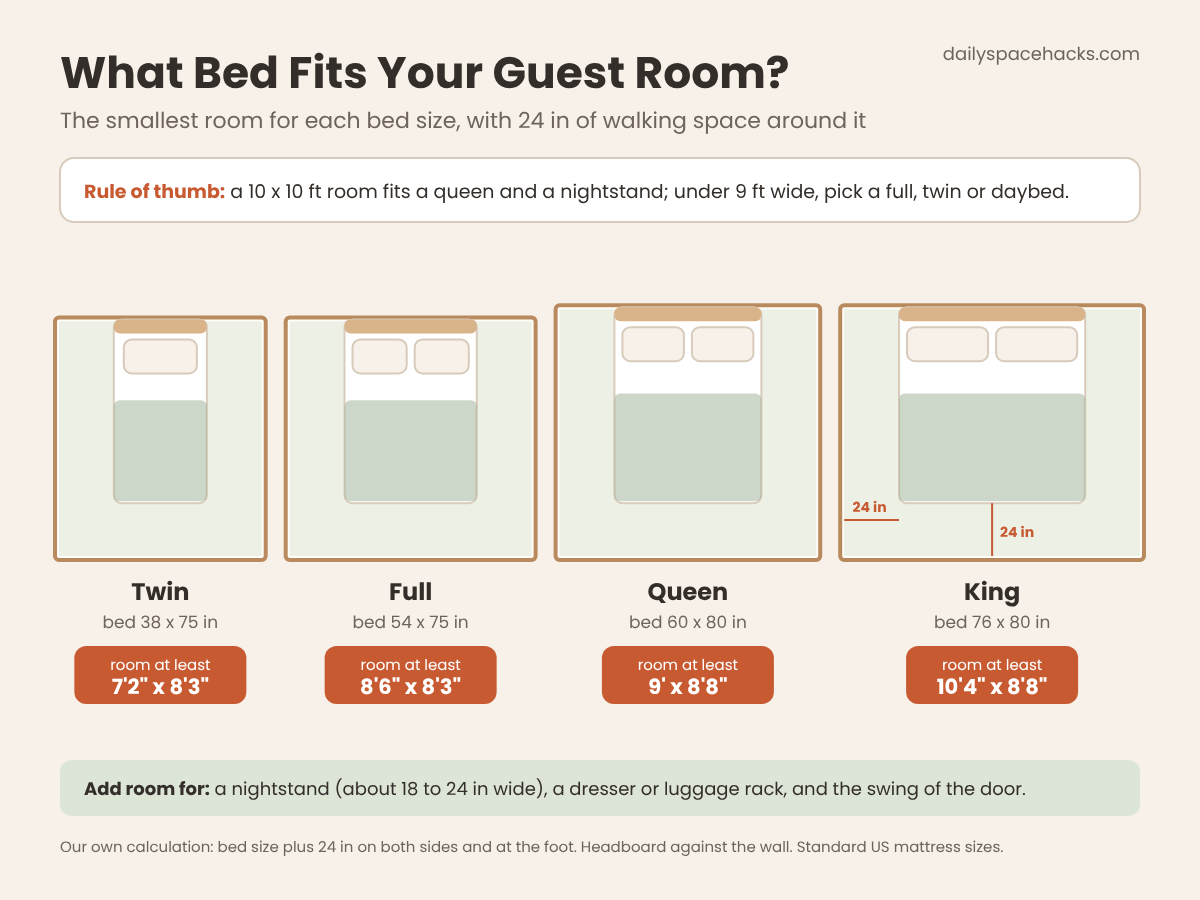
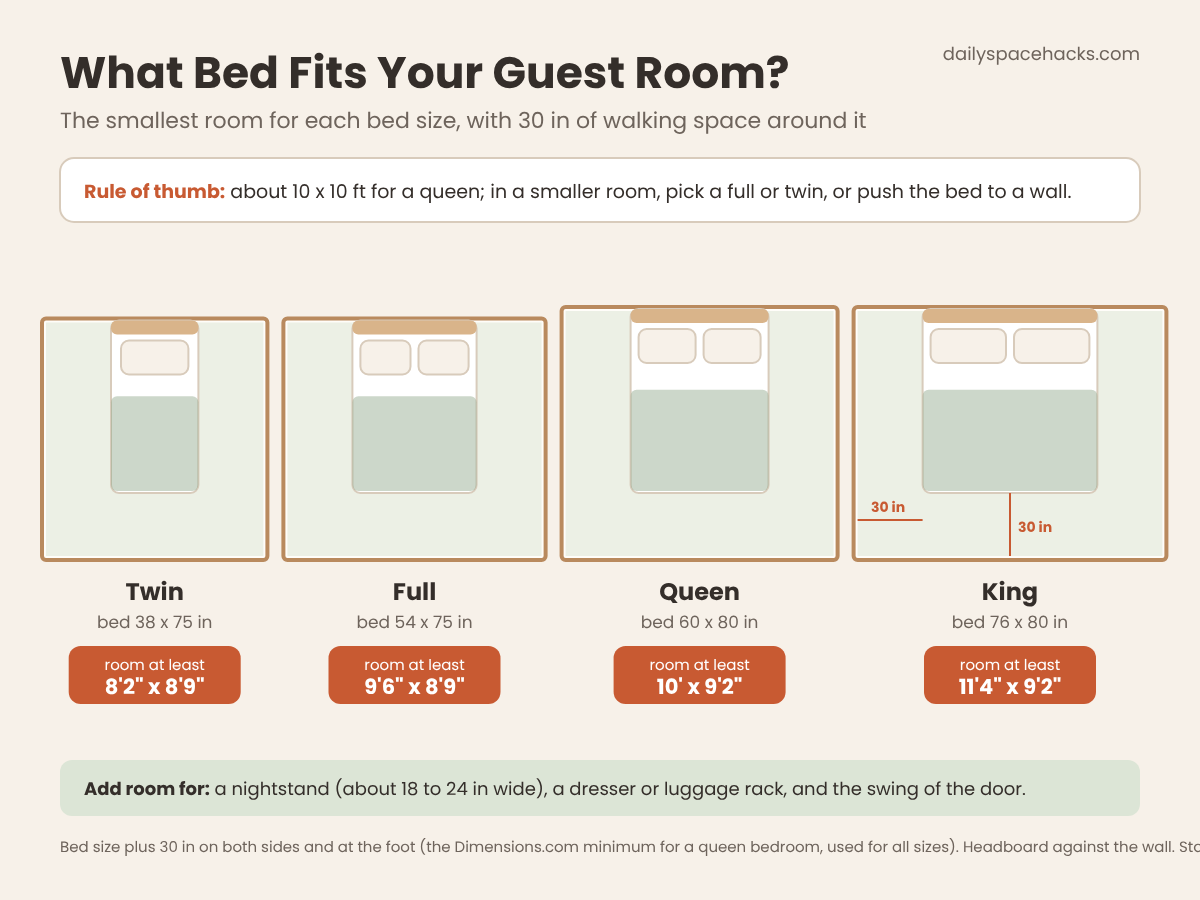
Guest bedroom build + boho tools
Claude-Session: https://claude.ai/code/session_01NA5LVV4VZ27gRjP7KysXbg

diff --git a/tools/boho-bedroom/shot.js b/tools/boho-bedroom/shot.js
@@ -1,0 +1,5 @@
+const {chromium}=require('playwright');
+(async()=>{const b=await chromium.launch({executablePath:'/opt/pw-browsers/chromium-1194/chrome-linux/chrome'}).catch(async()=>await chromium.launch());
+const p=await b.newPage({viewport:{width:1200,height:900}});
+await p.setContent('<html><body style="margin:0">'+require('fs').readFileSync('z.svg','utf8')+'</body></html>');
+await p.waitForTimeout(500);await p.screenshot({path:'z.png'});await b.close();})();

diff --git a/tools/guest-bedroom/build.py b/tools/guest-bedroom/build.py
@@ -1,0 +1,126 @@
+import re,json
+exec(open('helpers.py').read())
+IMG={int(k):tuple(v) for k,v in json.load(open('img.json')).items()}
+SRC={"dim":"https://www.dimensions.com/element/queen-bedroom-layouts",
+"mat":"https://www.sleepfoundation.org/mattress-information/mattress-sizes",
+"smoke":"https://www.villageofpennyan.gov/uploads/1/2/3/8/123892065/nfpa-smoke-alarms.pdf",
+"co":"https://www.cpsc.gov/s3fs-public/Quarter_Pg_CO_Alarms_10-22-14.pdf",
+"egress":"https://billingsmt.gov/DocumentCenter/View/4693",
+"temp":"https://www.sleepfoundation.org/bedroom-environment/best-temperature-for-sleep",
+"sheets":"https://www.sleepfoundation.org/bedding-information/how-often-should-you-wash-your-sheets"}
+def SR(k,t): return ext(SRC[k],t)
+p("The best guest bedroom ideas make visitors feel at home from the moment they put their bag down: a comfortable bed, a light by the pillow, somewhere to unpack and a few small touches that say you thought about them. You do not need a big room or a big budget, just a plan.")
+p("This guide shows you what size bed fits your spare room, a 6-step setup and 18 guest bedroom ideas for essentials, small rooms, guest room offices and decor. Most of them use things you already own, and every idea works in a small guest bedroom.")
+img(1)
+summary(["<strong>Quick answer:</strong> Start with the best bed the room can take, with at least 30 in of walking space around it. Add a nightstand with a lamp, a water carafe and a charger, a luggage rack with fresh towels, and some empty closet space. Finish with blackout curtains, an extra blanket and a calm color palette.",
+"In a small room, a full, twin or daybed often works better than a squeezed-in queen.",
+"Fit a smoke alarm inside the guest room, and check the window can be opened as an escape route if you are turning another room into a bedroom."],
+"<strong>Time:</strong> a weekend · <strong>Cost:</strong> about $50 to $300 if you already have a bed · <strong>Difficulty:</strong> Easy")
+toc("guest-bedroom-ideas")
+h2("What Size Bed Fits Your Guest Room?")
+p(f"The bed decides everything else, so start there. Standard US mattress sizes, as listed by the Sleep Foundation, are {SR('mat','38 x 75 in for a twin')}, 54 x 75 in for a full, 60 x 80 in for a queen and 76 x 80 in for a king. Dimensions.com recommends {SR('dim','minimum clearances of 30 inches')} around a queen bed, and 36 inches for comfort.")
+diagram(re.sub(r'(\d+\.\d{1,2})\d+',r'\1',open('z.svg').read()),"What bed fits your guest room: the smallest room for a twin, full, queen or king bed with 30 in of walking space on both sides and at the foot.")
+table(["Bed","Mattress size","Smallest room (30 in around)","Best for"],[
+["Twin","38 x 75 in","8 ft 2 in x 8 ft 9 in","One guest, kids, small rooms"],
+["Full","54 x 75 in","9 ft 6 in x 8 ft 9 in","One adult, or a couple for a night or two"],
+["Queen","60 x 80 in","10 ft x 9 ft 2 in","Couples, most guest rooms"],
+["King","76 x 80 in","11 ft 4 in x 9 ft 2 in","Large rooms, frequent couples"]])
+p("These room sizes are our own calculation: the mattress plus 30 in on both sides and at the foot, with the headboard against a wall. Pushing one side of the bed against a wall saves 30 in of width, which is often the best trick in a small guest bedroom.")
+h2("Quick Pick: Guest Bedroom Ideas by Situation")
+table(["Your situation","Best ideas","Cost"],[
+["Guests arrive this weekend","#2, #4, #5, #17","Free to low"],
+["Very small spare room","#7, #8, #9","Low to medium"],
+["Room is also your office","#10, #11","Medium"],
+["Guests stay for a week or more","#5, #6, #18","Low"],
+["Want a hotel feel","#3, #4, #12, #13","Medium"]])
+h2("How to Set Up a Guest Bedroom in 6 Steps")
+lst(["<strong>Clear the room.</strong> Move out boxes, exercise gear and anything you store there, or give it one closed cabinet.",
+"<strong>Choose and place the bed.</strong> Use the size chart above, and keep 30 in of walking space where guests get in and out.",
+"<strong>Add the essentials:</strong> a nightstand or shelf on each side used, a lamp, a place to unpack and a mirror.",
+"<strong>Make up the bed</strong> with clean sheets, two kinds of pillows and an extra blanket at the foot.",
+"<strong>Stock the small things:</strong> towels, water, a charger, tissues and the Wi-Fi password.",
+"<strong>Sleep in it yourself for one night.</strong> You will notice the squeaky bed, the light that leaks in and the missing hook."],True)
+img(6)
+h2("Guest Bedroom Essentials")
+p("These six ideas cover what every guest needs. Get them right and the room works, even before you add any decor.")
+h3("1. A Comfortable Mattress and a Protector")
+p("Guests remember a bad mattress more than anything else. If the guest bed is an old one, a 2 to 3 inch mattress topper is a cheaper fix than a new mattress. Add a waterproof mattress protector so the mattress stays clean between visits.")
+h3("2. Two Kinds of Pillows")
+p("Put out one firm and one soft pillow per guest, so side sleepers and back sleepers can both get comfortable. Keep a spare pillow and pillowcase in the closet.")
+h3("3. Layered Bedding and an Extra Blanket")
+p(f"Crisp sheets, a duvet or quilt, and a folded blanket at the foot let guests adjust to the temperature. The Sleep Foundation suggests that about {SR('temp','65 degrees Fahrenheit')} is best for sleep, so a light duvet plus a blanket covers most nights. Wash the sheets after every visit; the Sleep Foundation says most people should {SR('sheets','wash their sheets once per week')} anyway.")
+h3("4. A Nightstand With a Lamp, Water and a Charger")
+img(5)
+p("A nightstand on each side used gives guests a place for glasses, a phone and a book. Add a lamp they can switch on from bed, a carafe of water with a glass, and a phone charger plugged in and ready, so they do not have to search for an outlet.")
+h3("5. A Luggage Rack and Fresh Towels")
+img(2)
+p("A folding luggage rack keeps the suitcase off the floor and the bed. Set a stack of towels on it or at the foot of the bed: a bath towel, a hand towel and a washcloth per guest, so nobody has to ask.")
+h3("6. Empty Closet Space and Hangers")
+img(4)
+p(f"Leave part of the closet empty, with eight to ten matching hangers and one clear drawer or shelf. For longer stays, this is the difference between living out of a suitcase and settling in. If your linen closet needs a reset to make room, see our {a('linen-closet-organization','linen closet organization')} guide.")
+h2("Small Guest Bedroom Ideas")
+p(f"A small spare room can still be a lovely guest bedroom. Our {a('box-room-bedroom-ideas','box room bedroom ideas')} go further for the tiniest rooms.")
+h3("7. A Daybed or Trundle Bed")
+p("A daybed works as a sofa during the day and a twin bed at night, and a trundle underneath turns it into two beds for kids or friends. It takes far less floor space than a full or queen.")
+h3("8. Wall Lights Instead of Lamps")
+p("Plug-in wall sconces free up the nightstand, or let you swap it for a narrow shelf. Mount them so the shade sits a little above shoulder height when you sit up in bed.")
+h3("9. Storage Under the Bed")
+p(f"A bed with drawers, or low bins on wheels, holds spare bedding and out-of-season clothes without taking floor space. Keep one drawer empty for guests. Our {a('small-bedroom-storage-ideas','small bedroom storage ideas')} have more ways to fit storage in.")
+h2("Guest Room and Office Ideas")
+p("If the guest room is also your home office most of the year, choose pieces that switch roles quickly.")
+h3("10. A Daybed and Desk Combo")
+img(3)
+p("Put a daybed along one wall and a desk under the window, and the room works as an office every day and a guest room when you need it. Clear the desk and give guests one drawer when they arrive.")
+h3("11. A Murphy Bed or Sofa Bed")
+p("A wall bed or a good sofa bed gives back the whole floor for work. A wall bed must be installed securely to the wall following the maker's instructions; with a sofa bed, test the mattress before you buy and leave enough room in front to unfold it.")
+h2("Guest Bedroom Decor Ideas")
+p("Guest room decor should feel calm and welcoming rather than personal, like a good hotel with a little more warmth.")
+h3("12. A Calm, Neutral Palette")
+p("White or cream bedding, one soft accent color like sage or terracotta, and natural wood suit almost every guest. Keep family photos and collections to a minimum so the room feels like theirs for a few nights.")
+h3("13. Blackout Curtains")
+p(f"Guests sleep in unfamiliar rooms, often in a different time zone. The Sleep Foundation notes that {SR('temp','a dark, quiet bedroom will help you set your body clock')}, so lined or blackout curtains are worth it. Our {a('curtain-size-calculator','curtain size calculator')} tells you the size to buy.")
+h3("14. A Mirror and a Few Pieces of Art")
+p(f"A full-length mirror is something guests always look for. Add one or two calm pieces of art at the right height; our {a('picture-hanging-height-calculator','picture hanging height calculator')} works out where to put the nail.")
+h3("15. A Soft Rug by the Bed")
+p(f"A rug by the bed is the first thing guests step on in the morning. Choose one big enough to reach both sides of the bed, and use our {a('rug-size-calculator','rug size calculator')} to pick the size.")
+h3("16. Plants or Fresh Greenery")
+p("A small plant or a few stems of eucalyptus on the nightstand make the room feel cared for. Choose easy, non-fragrant greenery in case a guest has allergies.")
+h2("Thoughtful Touches Guests Remember")
+h3("17. A Welcome Card With the Wi-Fi Password")
+p("A small framed card with the Wi-Fi name and password, your house routines and the time breakfast usually happens saves your guests from asking.")
+h3("18. A Basket of Small Essentials")
+p("A basket or tray with a spare toothbrush, toothpaste, travel-size toiletries, earplugs, a sleep mask and a few snacks covers the things guests most often forget.")
+add(open('savebox.html').read())
+h2("Guest Bedroom Safety Tips")
+lst([f"<strong>Smoke alarms:</strong> NFPA guidance says {SR('smoke','smoke alarms should be installed inside every sleeping room')}, outside each separate sleeping area and on every level. Test the guest room alarm before visitors arrive.",
+f"<strong>Carbon monoxide alarms:</strong> the CPSC advises installing CO alarms {SR('co','in a central location outside each separate sleeping area')}.",
+f"<strong>Escape window:</strong> if you are turning an office or basement room into a bedroom, check the building code. The International Residential Code, as quoted by the City of Billings, requires an emergency escape opening with {SR('egress','a minimum net clear opening of 5.7 square feet')} and a sill no higher than 44 inches; local rules vary.",
+"<strong>Clear path:</strong> keep the way from the bed to the door clear, and leave a small night light in the hallway for guests who do not know the house."])
+h2("Common Guest Bedroom Mistakes")
+lst(["<strong>Using the guest room as storage.</strong> Guests notice boxes and the exercise bike; give stored things one closed cabinet.",
+"<strong>A bed that is too big for the room.</strong> A queen with no space to walk around feels worse than a comfortable full.",
+"<strong>No light by the bed.</strong> Guests should not have to cross a dark room to switch off the ceiling light.",
+"<strong>No space to unpack.</strong> Clear some hangers and a drawer before they arrive.",
+"<strong>Never sleeping in it yourself.</strong> One night in the guest bed shows you what needs fixing."])
+h2("Guest Bedroom FAQ")
+h3("What do you need in a guest bedroom?")
+p("A guest bedroom needs a comfortable bed with clean sheets and two kinds of pillows, a nightstand with a lamp, somewhere to put a suitcase, towels, a mirror and some empty closet space. Small extras like water, a charger, the Wi-Fi password and a spare toothbrush make guests feel welcome.")
+h3("What size bed is best for a guest room?")
+p("A queen suits most guest rooms and couples, but it needs a room about 10 by 9 feet with 30 inches to walk around. In a smaller room, a full or a twin, or a daybed with a trundle, leaves more space and is often more comfortable for guests.")
+h3("How do you make a small guest room feel bigger?")
+p("Push one side of the bed against a wall, use wall lights instead of large nightstands, store things under the bed, and keep the palette light and calm. A mirror opposite the window and curtains hung high and wide also make a small room feel larger.")
+h3("Can a guest room be an office too?")
+p("Yes. A daybed or sofa bed along one wall and a desk under the window let the room work as an office every day and a guest room when needed. Clear the desk and a drawer for guests, and keep work papers in a closed cabinet.")
+h3("How do you make a guest room feel like a hotel?")
+p("Use crisp white bedding, extra pillows, a folded throw, a luggage rack, a stack of fresh towels and blackout curtains. Add a lamp by the bed, water and glasses on the nightstand, and a small basket of toiletries.")
+h2("Final Thoughts")
+p("The best guest bedroom ideas are simple: the right size bed, light and water within reach, somewhere to unpack and a few small touches. Set the room up once, sleep in it yourself and keep a basket of essentials ready, and every visit becomes easy to host.")
+p(f"Short on space? Our {a('room-divider-ideas','room divider ideas')} show how to carve a guest corner out of a bigger room, and our {a('studio-apartment-ideas','studio apartment ideas')} cover making one room work for everything.")
+ai_note()
+html='\n\n'.join(out)
+open('content.html','w').write(html)
+txt=re.sub(r'<[^>]+>',' ',re.sub(r'(?s)<svg.*?</svg>','',html))
+print(len(html),'words',len(txt.split()),'kw',txt.lower().count('guest bedroom ideas'),txt.lower().count('guest bedroom'),txt.lower().count('guest room'))
+print(sorted(set(re.findall(r'dailyspacehacks\.com/([a-z0-9-]+)/',html))))
+for w in ['colour','organise','favourite','cushion']:
+    if w in txt.lower(): print('UK',w)

diff --git a/tools/boho-bedroom/helpers.py b/tools/boho-bedroom/helpers.py
@@ -1,0 +1,29 @@
+import re
+S="https://dailyspacehacks.com/"
+U=S+"wp-content/uploads/2026/10/"
+out=[]
+def add(x): out.append(x)
+def a(slug,t): return f'<a href="{S}{slug}/">{t}</a>'
+def ext(u,t): return f'<a href="{u}" target="_blank" rel="noopener">{t}</a>'
+def p(t): add(f'<!-- wp:paragraph -->\n<p>{t}</p>\n<!-- /wp:paragraph -->')
+def h2(t): add(f'<!-- wp:heading -->\n<h2 class="wp-block-heading">{t}</h2>\n<!-- /wp:heading -->')
+def h3(t): add(f'<!-- wp:heading {{"level":3}} -->\n<h3 class="wp-block-heading">{t}</h3>\n<!-- /wp:heading -->')
+def img(n):
+    i,f,al=IMG[n]
+    add(f'<!-- wp:image {{"id":{i},"sizeSlug":"full","linkDestination":"none"}} -->\n<figure class="wp-block-image size-full"><img src="{U}{f}" alt="{al}" class="wp-image-{i}"/></figure>\n<!-- /wp:image -->')
+def lst(items,ordered=False):
+    tag='ol' if ordered else 'ul'
+    attr=' {"ordered":true}' if ordered else ''
+    li='\n'.join(f'<!-- wp:list-item -->\n<li>{x}</li>\n<!-- /wp:list-item -->' for x in items)
+    add(f'<!-- wp:list{attr} -->\n<{tag} class="wp-block-list">{li}</{tag}>\n<!-- /wp:list -->')
+def table(head,rows):
+    th=''.join(f'<th>{h}</th>' for h in head)
+    tr=''.join('<tr>'+''.join(f'<td>{c}</td>' for c in r)+'</tr>' for r in rows)
+    add(f'<!-- wp:table -->\n<figure class="wp-block-table"><table><thead><tr>{th}</tr></thead><tbody>{tr}</tbody></table></figure>\n<!-- /wp:table -->')
+def summary(items,line):
+    li='\n'.join(f'<!-- wp:list-item -->\n<li>{x}</li>\n<!-- /wp:list-item -->' for x in items)
+    add('<!-- wp:group {"className":"dsh-summary","style":{"color":{"background":"#EEF3EC"},"spacing":{"padding":{"top":"20px","bottom":"20px","left":"24px","right":"24px"}},"border":{"radius":"12px","left":{"color":"#8FA689","width":"5px"}}},"layout":{"type":"constrained"}} -->\n<div class="wp-block-group dsh-summary has-background" style="border-radius:12px;border-left-color:#8FA689;border-left-width:5px;background-color:#EEF3EC;padding-top:20px;padding-right:24px;padding-bottom:20px;padding-left:24px"><!-- wp:paragraph -->\n<p><strong>Key Takeaways</strong></p>\n<!-- /wp:paragraph -->\n<!-- wp:list -->\n<ul class="wp-block-list">'+li+'</ul>\n<!-- /wp:list -->\n<!-- wp:paragraph -->\n<p>'+line+'</p>\n<!-- /wp:paragraph -->\n</div>\n<!-- /wp:group -->')
+def toc(uid): add('<!-- wp:kadence/tableofcontents {"uniqueID":"_toc'+uid+'","allowedHeaders":[{"h1":false,"h2":true,"h3":true,"h4":false,"h5":false,"h6":false}],"enableToggle":true,"startClosed":true} /-->')
+def diagram(svg,cap): add('<!-- wp:html -->\n<figure class="dsh-diagram">'+svg.replace('\n','')+'<figcaption>'+cap+'</figcaption></figure>\n<!-- /wp:html -->')
+def ai_note(): add('<!-- wp:paragraph {"className":"dsh-ai-note","fontSize":"small"} -->\n<p class="dsh-ai-note has-small-font-size"><em>How this guide was made: researched and written with the help of AI tools, fact-checked against trusted sources and published by Mohamed Elber. Images are AI-generated illustrations. See our <a href="https://dailyspacehacks.com/editorial-policy/">Editorial Policy</a>.</em></p>\n<!-- /wp:paragraph -->')
+

diff --git a/tools/guest-bedroom/svg.py b/tools/guest-bedroom/svg.py
@@ -15,8 +15,8 @@ a(f'<rect width="1200" height="900" fill="{BG}"/>')
 a(f'<text x="60" y="88" font-size="44" font-weight="700" fill="{T}">What Bed Fits Your Guest Room?</text>')
 a(f'<text x="60" y="128" font-size="22" fill="{G}">The smallest room for each bed size, with {C} in of walking space around it</text>')
 a(f'<text x="1140" y="60" font-size="18" fill="{G}" text-anchor="end">dailyspacehacks.com</text>')
-SC=2.45  # px per inch
-base=560; x=55
+SC=2.3  # px per inch
+base=560; x=42
 for i,(n,w,l,rw,rl) in enumerate(rows):
     RW=rw*SC; RL=rl*SC
     y=base-RL
@@ -43,12 +43,12 @@ for i,(n,w,l,rw,rl) in enumerate(rows):
         # dimension arrows for clearance on king
         a(f'<line x1="{x+4}" y1="{y+RL-40}" x2="{bx}" y2="{y+RL-40}" stroke="{A}" stroke-width="2"/><text x="{x+C*SC/2}" y="{y+RL-48}" font-size="14" font-weight="700" fill="{A}" text-anchor="middle">{C} in</text>')
         a(f'<line x1="{bx+w*SC/2}" y1="{by+l*SC+2}" x2="{bx+w*SC/2}" y2="{y+RL-4}" stroke="{A}" stroke-width="2"/><text x="{bx+w*SC/2+8}" y="{by+l*SC+C*SC/2+6}" font-size="14" font-weight="700" fill="{A}">{C} in</text>')
-    x+=RW+20
+    x+=RW+16
 a(f'<rect x="60" y="158" width="1080" height="64" rx="14" fill="#fff" stroke="{BR}" stroke-width="2"/>')
-a(f'<text x="84" y="198" font-size="19" fill="{T}"><tspan font-weight="700" fill="{A}">Rule of thumb:</tspan> a 10 x 10 ft room fits a queen and a nightstand; under 9 ft wide, pick a full, twin or daybed.</text>')
+a(f'<text x="84" y="198" font-size="19" fill="{T}"><tspan font-weight="700" fill="{A}">Rule of thumb:</tspan> about 10 x 10 ft for a queen; in a smaller room, pick a full or twin, or push the bed to a wall.</text>')
 # notes box
 a(f'<rect x="60" y="760" width="1080" height="56" rx="12" fill="{SGL}"/>')
 a(f'<text x="84" y="795" font-size="18" fill="{T}"><tspan font-weight="700">Add room for:</tspan> a nightstand (about 18 to 24 in wide), a dresser or luggage rack, and the swing of the door.</text>')
-a(f'<text x="60" y="852" font-size="15" fill="{G}">Our own calculation: bed size plus {C} in on both sides and at the foot. Headboard against the wall. Standard US mattress sizes.</text>')
+a(f'<text x="60" y="852" font-size="15" fill="{G}">Bed size plus {C} in on both sides and at the foot (the Dimensions.com minimum for a queen bedroom, used for all sizes). Headboard against the wall. Standard US mattress sizes.</text>')
 a('</svg>')
 open('z.svg','w').write('\n'.join(s))
